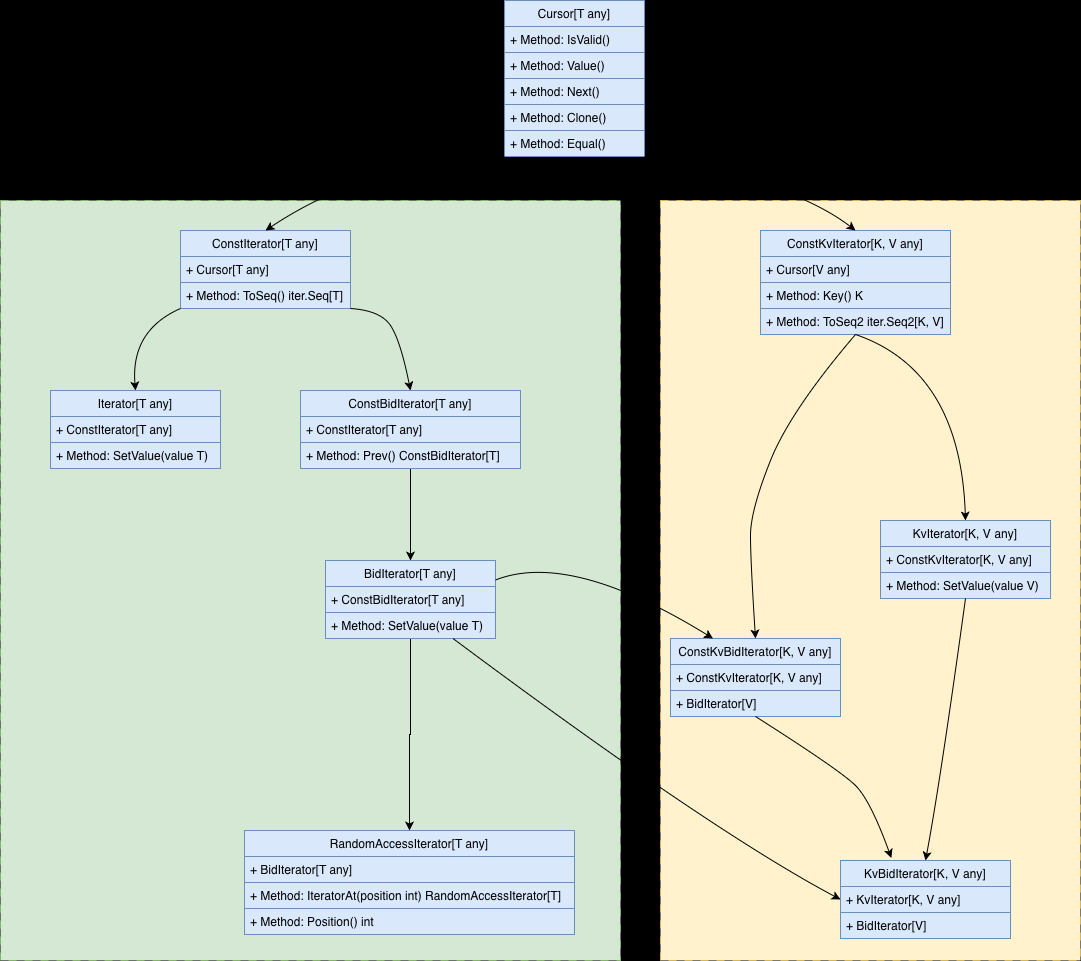
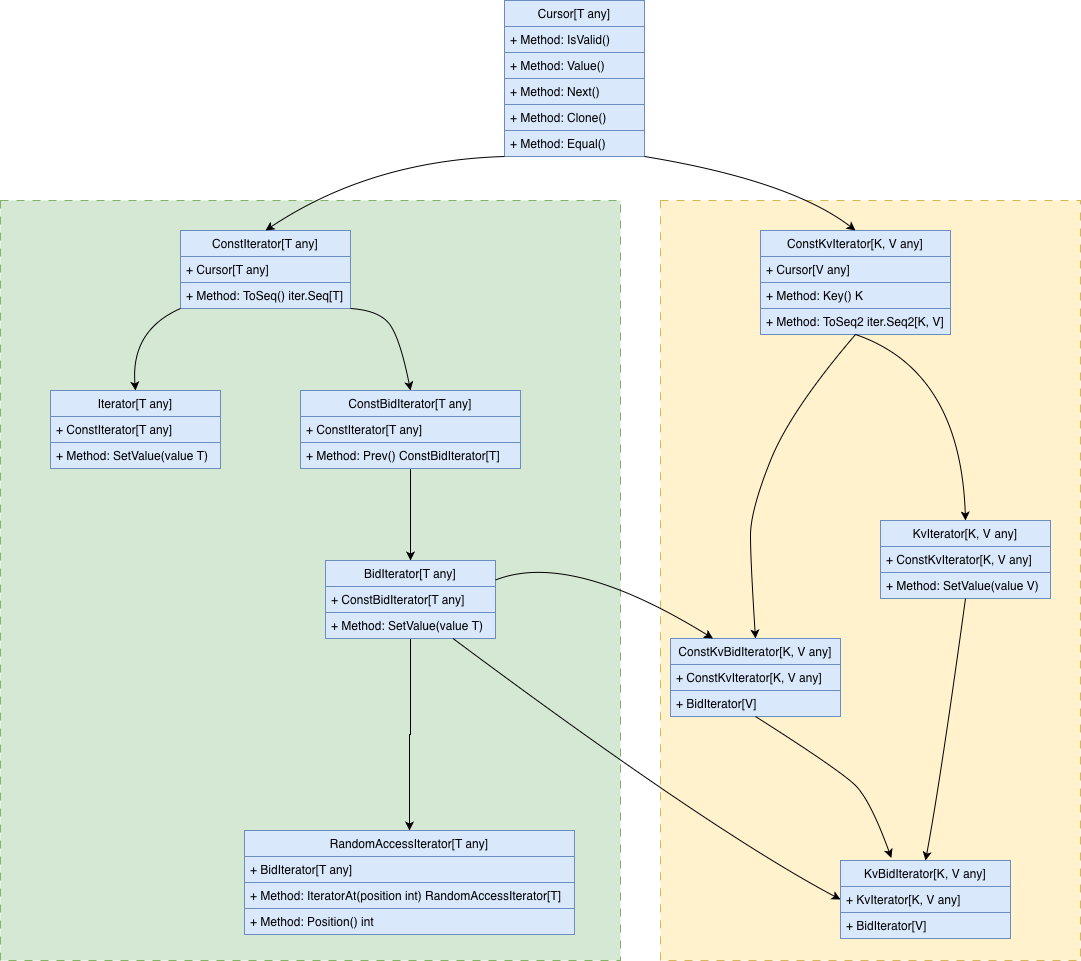
fix: 修改说明文档

Changed region(s): [[0.0, 0.0, 1.0, 1.0]]

diff --git a/README.md b/README.md
@@ -3,8 +3,8 @@ Try implementing the STL and some tools in GO.
 Study the gostl project and improve on its basis
 
 ![iterator](./imgs/iterator.png)
-##迭代器接口
-其中Cursor作为基础的迭代器拥有基础的功能
+## 迭代器接口
+其中`Cursor[T]`作为基础的迭代器拥有基础的功能
 1. 当前指向的位置是否有效
 2. 获取当前指向位置的Value
 3. 获取下一个位置的游迭代器
@@ -21,11 +21,11 @@ type Cursor[T any] interface {
 ```
 
 下分两个分支
-1. 线性迭代器（ConstIterator）
-   a. 扩展Cursor[T]，增加GO1.23+的iter.Seq的集成，用于实现range遍历
-2. 键值对迭代器（ConstKvIterator）
-   a. 扩展Cursor[T]，增加GO1.23+的iter.Seq2的集成，用于实现range遍历
-   b. 增加Key()方法获取Key值
+1. 线性迭代器（`ConstIterator`）
+   a. 扩展`Cursor[T]`，增加GO1.23+的`iter.Seq[T]`的集成，用于实现`range`遍历
+2. 键值对迭代器（`ConstKvIterator[K,V]`）
+   a. 扩展`Cursor[T]`，增加`GO1.23+`的`iter.Seq2[K,V]`的集成，用于实现`range`遍历
+   b. 增加`Key() K`方法获取`Key`值
 
 
 ```go
